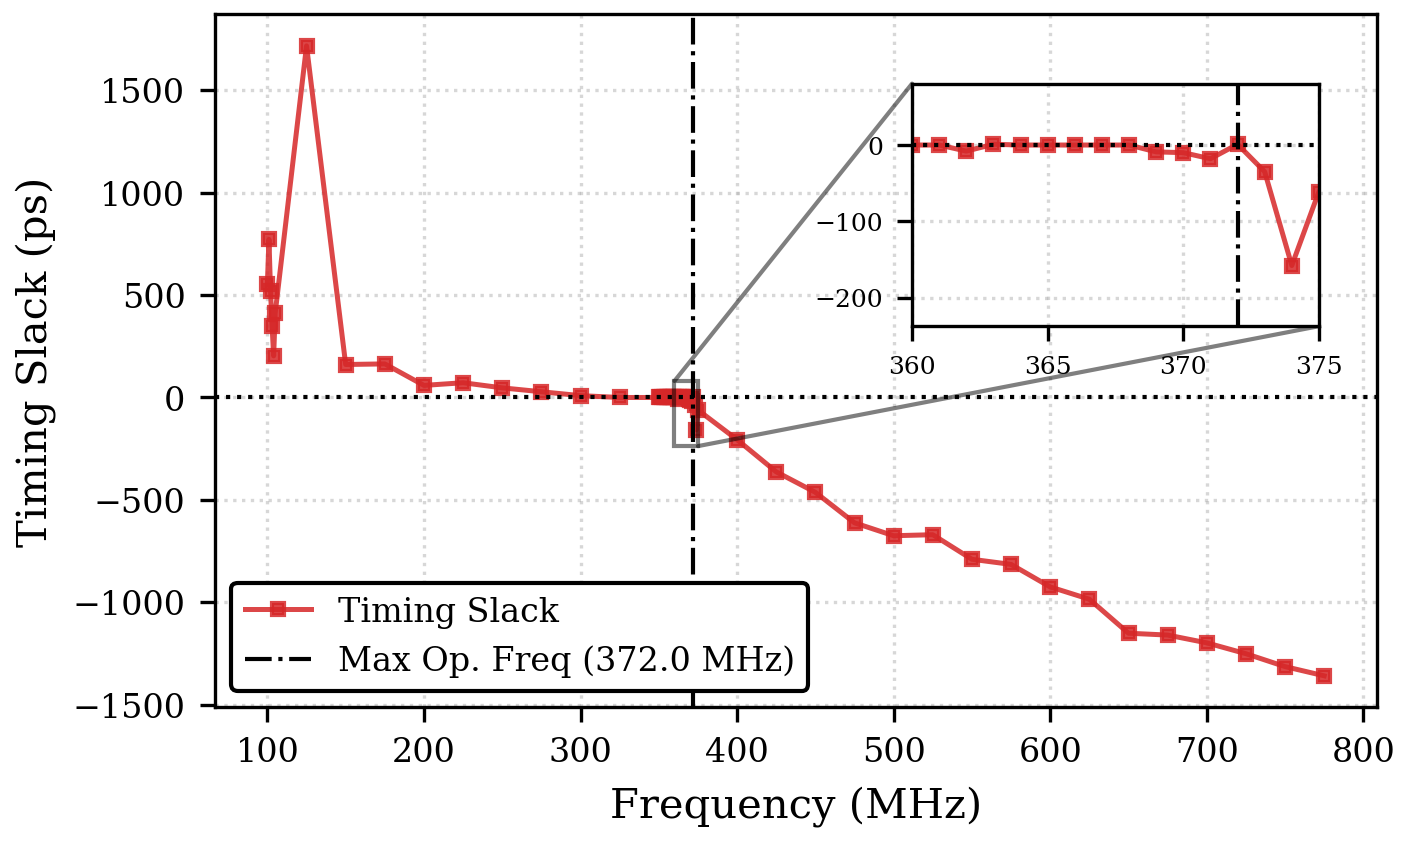
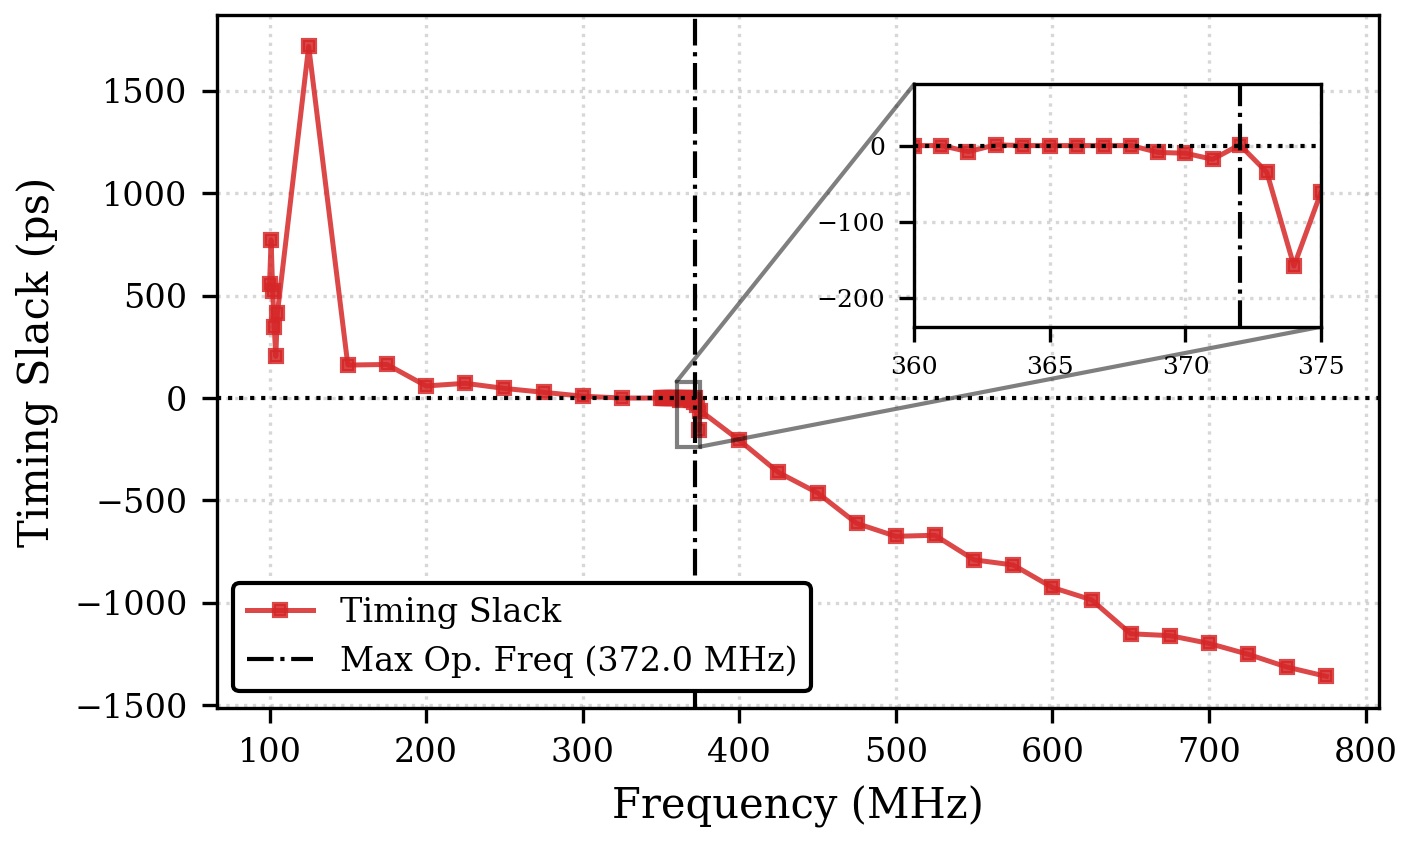
Adding slack and area graphs and metrics

diff --git a/helper_scripts/graph_builder.py b/helper_scripts/graph_builder.py
@@ -34,7 +34,7 @@ plt.rcParams.update({
 
 def extract_valid_data(x_list, y_list):
     """Filters out None values to prevent Matplotlib plotting errors"""
-    filtered = [(x, y) for x, y in zip(x_list, y_list) if y is not None]
+    filtered = [(x, y) for x, y in zip(x_list, y_list) if (y is not None and x != 10)]
     if not filtered:
         return [], []
     return zip(*filtered)
@@ -142,7 +142,7 @@ def main():
         ax.legend()
         
         # Inset zoom logic (Placed top-left since area data goes up and right)
-        add_inset_zoom(ax, x_val, y_val, [350, 365], 'o', 'tab:blue', max_freq_zero_slack, loc=[0.1, 0.55, 0.35, 0.35])
+        add_inset_zoom(ax, x_val, y_val, [360, 375], 'o', 'tab:blue', max_freq_zero_slack, loc=[0.1, 0.55, 0.35, 0.35])
 
         ax.set_xlabel('Frequency (MHz)')
         ax.set_ylabel('Total Area (um²)')
@@ -191,7 +191,7 @@ def main():
         ax.legend()
         
         # Inset zoom logic (Placed top-left assuming power follows Area trend)
-        add_inset_zoom(ax, x_val, y_val, [350, 365], '^', 'tab:green', max_freq_zero_slack, loc=[0.1, 0.55, 0.35, 0.35])
+        add_inset_zoom(ax, x_val, y_val, [360, 375], '^', 'tab:green', max_freq_zero_slack, loc=[0.1, 0.55, 0.35, 0.35])
 
         ax.set_xlabel('Frequency (MHz)')
         ax.set_ylabel('Total Power (W)')